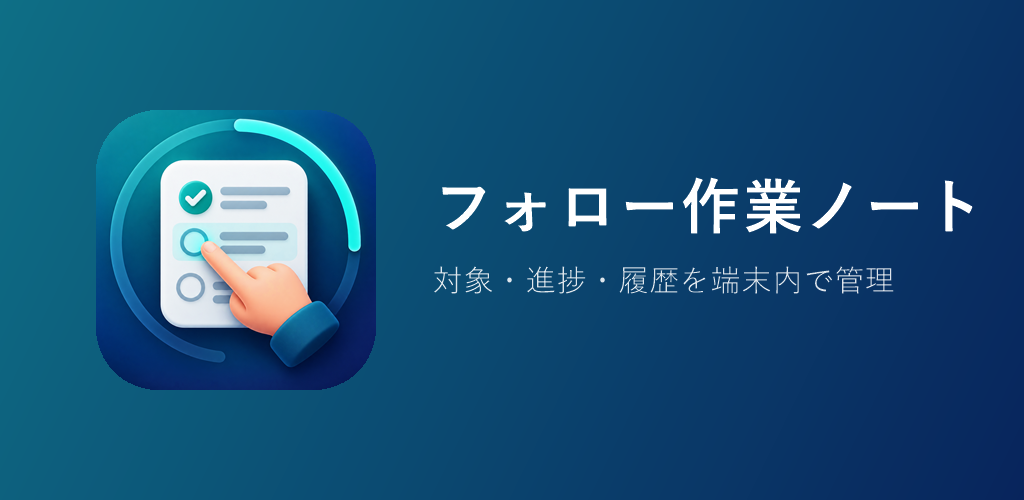
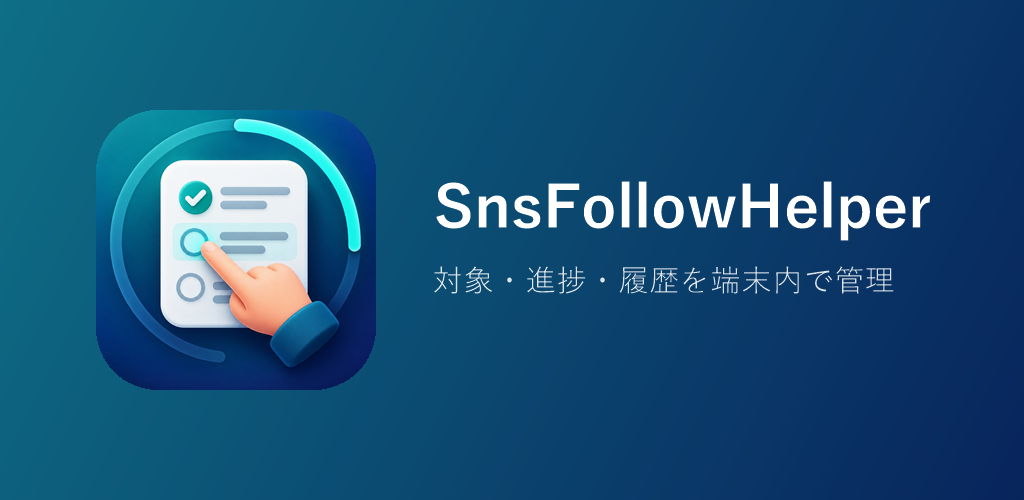
chore: rename the app to SnsFollowHelper everywhere
Use one name across both stores, the launcher label, the in-app titles,
the privacy policy and the docs. Regenerate the Play feature graphic
and start a log of the store setup decisions and pitfalls.

Claude-Session: https://claude.ai/code/session_01MXiyuMAQMmVVb413Q8ozVE

Changed region(s): [[0.4062, 0.36, 0.9688, 0.48]]

diff --git a/docs/privacy.html b/docs/privacy.html
@@ -3,7 +3,7 @@
 <head>
 <meta charset="utf-8">
 <meta name="viewport" content="width=device-width, initial-scale=1">
-<title>プライバシーポリシー - フォロー作業ノート</title>
+<title>プライバシーポリシー - SnsFollowHelper</title>
 <style>
   /* Self-contained: served by GitHub Pages from /docs with no shared stylesheet. */
   :root { color-scheme: light dark; --fg: #1a1a1a; --bg: #f5f8f7; --accent: #1f5fbf; --muted: #667; --rule: #d7dbe6; }
@@ -25,9 +25,9 @@
 <main>
 
 <h1>プライバシーポリシー</h1>
-<p class="updated">フォロー作業ノート／最終更新日 2026年9月11日</p>
+<p class="updated">SnsFollowHelper／最終更新日 2026年9月11日</p>
 
-<p>フォロー作業ノート (以下「本アプリ」) は、Serendipity (以下「当方」) が提供する、SNS プロフィール確認作業の対象・進捗・履歴を端末内で管理するアプリです。本アプリにおける情報の取り扱いについて説明します。</p>
+<p>SnsFollowHelper (以下「本アプリ」) は、Serendipity (以下「当方」) が提供する、SNS プロフィール確認作業の対象・進捗・履歴を端末内で管理するアプリです。本アプリにおける情報の取り扱いについて説明します。</p>
 
 <h2>当方が収集する情報</h2>
 <p><strong>当方は、本アプリの利用者から個人情報を収集しません。</strong></p>
@@ -79,11 +79,11 @@
 <hr>
 
 <h1 lang="en">Privacy Policy</h1>
-<p class="updated" lang="en">Follow Work Notes / Last updated 11 September 2026</p>
+<p class="updated" lang="en">SnsFollowHelper / Last updated 11 September 2026</p>
 
 <div lang="en">
 
-<p>Follow Work Notes ("the app") is provided by Serendipity ("we"). It helps you manage the targets, progress and history of manual social profile reviews locally on your device. This page explains how the app handles information.</p>
+<p>SnsFollowHelper ("the app") is provided by Serendipity ("we"). It helps you manage the targets, progress and history of manual social profile reviews locally on your device. This page explains how the app handles information.</p>
 
 <h2>What we collect</h2>
 <p><strong>We do not collect personal information from users of the app.</strong></p>

diff --git a/follow_support_app/lib/ui/settings_screen.dart b/follow_support_app/lib/ui/settings_screen.dart
@@ -255,7 +255,7 @@ class AboutScreen extends StatelessWidget {
     body: PageBody(
       children: [
         Image.asset('assets/follow_work_notes_icon.png', height: 120),
-        Text('フォロー作業ノート', style: Theme.of(context).textTheme.headlineSmall),
+        Text('SnsFollowHelper', style: Theme.of(context).textTheme.headlineSmall),
         const Text(
           'バージョン 1.0.0\n\n利用者が用意したプロフィール一覧と、手動で判断した作業結果を端末内に保存するアプリです。',
         ),
@@ -274,7 +274,7 @@ class AboutScreen extends StatelessWidget {
         TextButton(
           onPressed: () => showLicensePage(
             context: context,
-            applicationName: 'フォロー作業ノート',
+            applicationName: 'SnsFollowHelper',
             applicationVersion: '1.0.0',
           ),
           child: const Text('オープンソースライセンス'),

diff --git a/follow_support_app/lib/app.dart b/follow_support_app/lib/app.dart
@@ -11,7 +11,7 @@ class FollowSupportApp extends StatelessWidget {
   const FollowSupportApp({super.key});
   @override
   Widget build(BuildContext context) => MaterialApp(
-    title: 'フォロー作業ノート',
+    title: 'SnsFollowHelper',
     debugShowCheckedModeBanner: false,
     theme: ThemeData(
       useMaterial3: true,
@@ -131,7 +131,7 @@ class _StartupScreenState extends ConsumerState<StartupScreen> {
   Widget build(BuildContext context) {
     final choices = accounts.where((a) => a.platform == platform).toList();
     return Scaffold(
-      appBar: AppBar(title: const Text('フォロー作業ノート')),
+      appBar: AppBar(title: const Text('SnsFollowHelper')),
       body: busy
           ? const Center(child: CircularProgressIndicator())
           : PageBody(

diff --git a/docs/STORE_SETUP_LOG.md b/docs/STORE_SETUP_LOG.md
@@ -1,0 +1,55 @@
+# ストア配信セットアップの記録
+
+`docs/STORE_SETUP_INSTRUCTIONS.md` に沿って作業した結果と、決めたこと、踏んだもの。
+手順そのものは WSIBrowser の `doc/codemagic-android.md` / `doc/codemagic-ios.md` を参照。
+
+## 決定事項 (一問一答の結果)
+
+| 項目 | 決定 |
+| --- | --- |
+| upload keystore | 既存の `C:\Users\takayanagi\keys\snsfollowhelper_upload.jks` を使う (PKCS12、alias `snsfollowhelper`) |
+| プライバシーポリシーの提供者 | Serendipity / develop@serendipy.jp |
+| コミットと push | 作業ブランチ `Serendipity1118/release` でコミットし、main へ早送りで push |
+| スクリーンショット | 撮影用 AVD `SnsFollowHelper_Screenshot` (1080x1920) を一時的に作り、撮影後に削除 |
+| 変数グループ `google_play` の公開範囲 | chikenPortal / pokePlus / SnsFollewHelper / WSIBrowser を個別に on。All applications は off |
+| Play の「自動保護」 | 既定のまま (インストーラ チェックを追加する) |
+| アプリ名 | **SnsFollowHelper** に統一。両ストアの掲載名、端末の表示名 (AndroidManifest / Info.plist)、アプリ内のタイトル、文書のすべて。Play Console は旧名「フォロー作業ノート」で作成したので、掲載情報で名前を変える |
+
+## 登録したもの
+
+| サービス | 内容 |
+| --- | --- |
+| GitHub Pages | main の `/docs`。<https://serendipity1118.github.io/SnsFollewHelper/privacy.html> |
+| Codemagic | アプリ SnsFollewHelper (project type は Other)。keystore 参照名 `snsfollowhelper_upload` |
+| Google Play Console | `jp.serendipy.snsfollowhelper` (アプリ ID 4975189214274327445)。作成時の名前は旧名のため、掲載情報で SnsFollowHelper に変える |
+| Apple Developer | App ID `jp.serendipy.snsfollowhelper` (名前 SnsFollowHelper、Capabilities なし) |
+
+## ストア素材
+
+| ファイル | 用途 |
+| --- | --- |
+| `follow_support_app/store/play-icon-512.png` | Play のアイコン |
+| `follow_support_app/store/app-store-icon-1024.png` | App Store のアイコン |
+| `follow_support_app/store/play-feature-1024x500.png` | Play のフィーチャーグラフィック |
+| `follow_support_app/store/screenshots/android-ja/*.png` | Play のスマートフォン用 6 枚 (1080x1920) |
+
+画像は `follow_support_app/tool/render_store_assets.ps1` で作り直せる。元アイコンは角丸で四隅が透過
+(中央も alpha 252) なので、角丸の内側の正方形を切り出して不透明な背景に重ねている。
+
+## 踏んだもの
+
+- **keystore の alias に先頭の空白が入ると `Alias " snsfollowhelper" does not exist in keystore` になる。**
+  エラー文の引用符の内側に空白が見えたら入力値を疑う
+- **Codemagic の変数グループの Application access は、表示が実際の設定と合っていなかった。**
+  WSIBrowser と pokePlus は `google_play` を使ってビルドに成功しているのに、Edit group では
+  全アプリが off に見えた (DOM でも未チェック)。新しいアプリだけ on にして保存すると
+  既存アプリの許可を外す恐れがあるので、使っているアプリをすべて on にして保存した
+- **ビルド画面に手順名が並んでも、ビルドが始まったとは限らない。** 変数グループの許可エラーは
+  手順一覧の下に 1 行出るだけなので、ページの文字列で `Application does not have access` を確認する
+- **Play Console の「アプリを作成」にパッケージ名の欄が増えている。** 作成時に
+  「使用できるか確認する」でパッケージ名を確定できる。無料を選ぶと「自動保護」の欄が現れる
+- **Claude in Chrome はリポジトリ外のファイルをアップロードできない。** keystore のように
+  セッションの許可ディレクトリ外にあるファイルは、利用者が画面で選ぶ
+- **背景のタブではスクリーンショットが取れない** (CDP のタイムアウト)。1 タブで順に操作する
+- 撮影中、操作履歴にはサンプルでも「プロフィール起動」が記録され、対象 ID が UUID で表示される。
+  ストア画像には使っていない

diff --git a/docs/CODEMAGIC.md b/docs/CODEMAGIC.md
@@ -31,7 +31,7 @@ Google Play APIによる自動配信は、同じpackage nameの初回AABをPlay 
 ## iOSの事前設定
 
 1. Apple Developerで`jp.serendipy.snsfollowhelper`のApp IDを作る。
-2. App Store Connectに「フォロー作業ノート」のアプリレコードを作る。
+2. App Store Connectに「SnsFollowHelper」のアプリレコードを作る。
 3. App Store配布用Provisioning Profileを作る。
 4. CodemagicのCode signing identitiesへApple Distribution証明書とProfileを登録する。
 5. Profileのbundle IDが`jp.serendipy.snsfollowhelper`と一致することを確認する。

diff --git a/docs/APP_STORE_REVIEW_NOTES.md b/docs/APP_STORE_REVIEW_NOTES.md
@@ -1,4 +1,4 @@
-# App Store Review Notes — Follow Work Notes
+# App Store Review Notes — SnsFollowHelper
 
 This app does not automate any action on third-party social networking services.
 It manages user-provided profile targets and manually recorded results locally using SQLite.

diff --git a/README.md b/README.md
@@ -1,4 +1,4 @@
-# フォロー作業ノート
+# SnsFollowHelper
 
 X / Instagramの対象リストと手動の作業結果を端末内で管理するFlutterアプリです。
 SNSの自動操作、認証情報の取得、外部Backendはありません。

diff --git a/docs/STORE_LISTING_JA.md b/docs/STORE_LISTING_JA.md
@@ -1,5 +1,8 @@
 # ストア掲載文（日本語ドラフト）
 
+## アプリ名
+SnsFollowHelper
+
 ## 短い説明
 SNSプロフィール確認作業の対象・進捗・履歴を端末内で管理する作業支援アプリです。
 

diff --git a/docs/STORE_LISTING_EN.md b/docs/STORE_LISTING_EN.md
@@ -1,5 +1,8 @@
 # Store Listing (English Draft)
 
+## App name
+SnsFollowHelper
+
 ## Short description
 Manage social profile review targets, progress, and history locally on your device.
 
